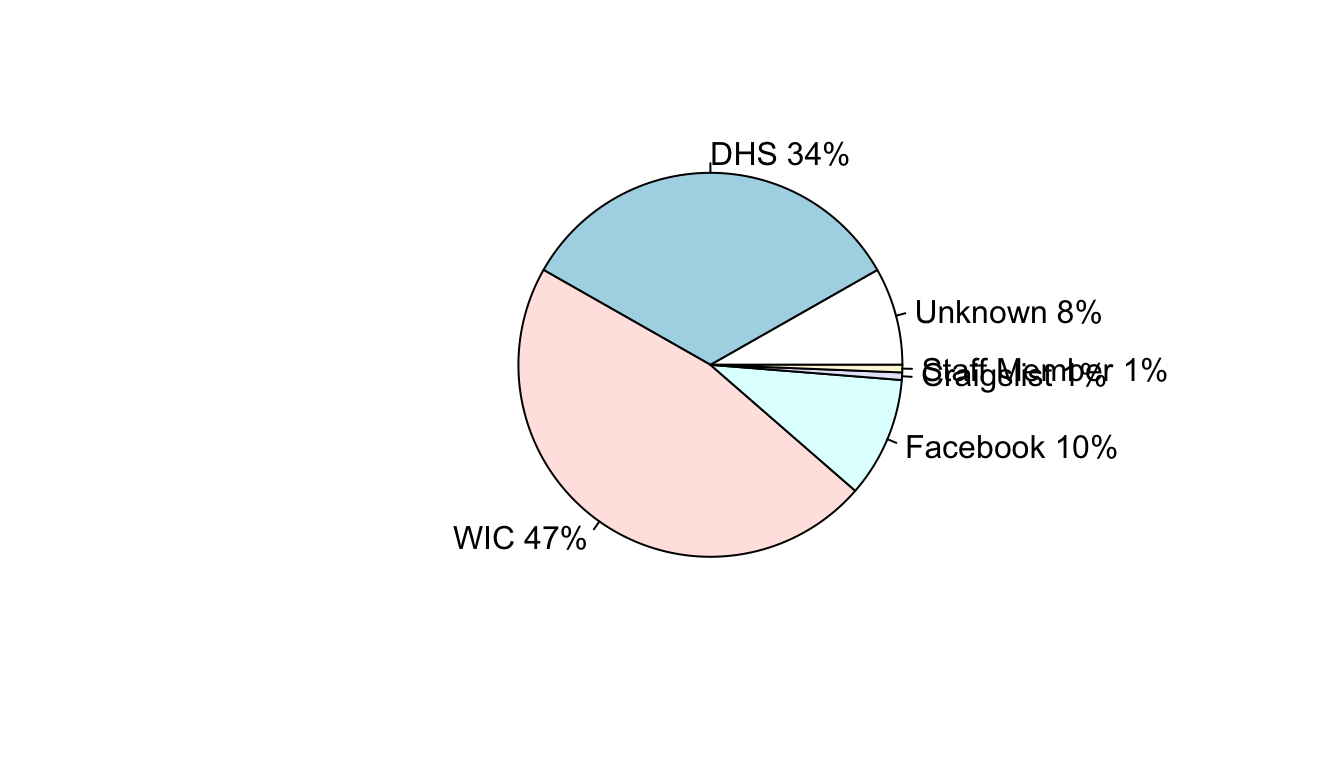
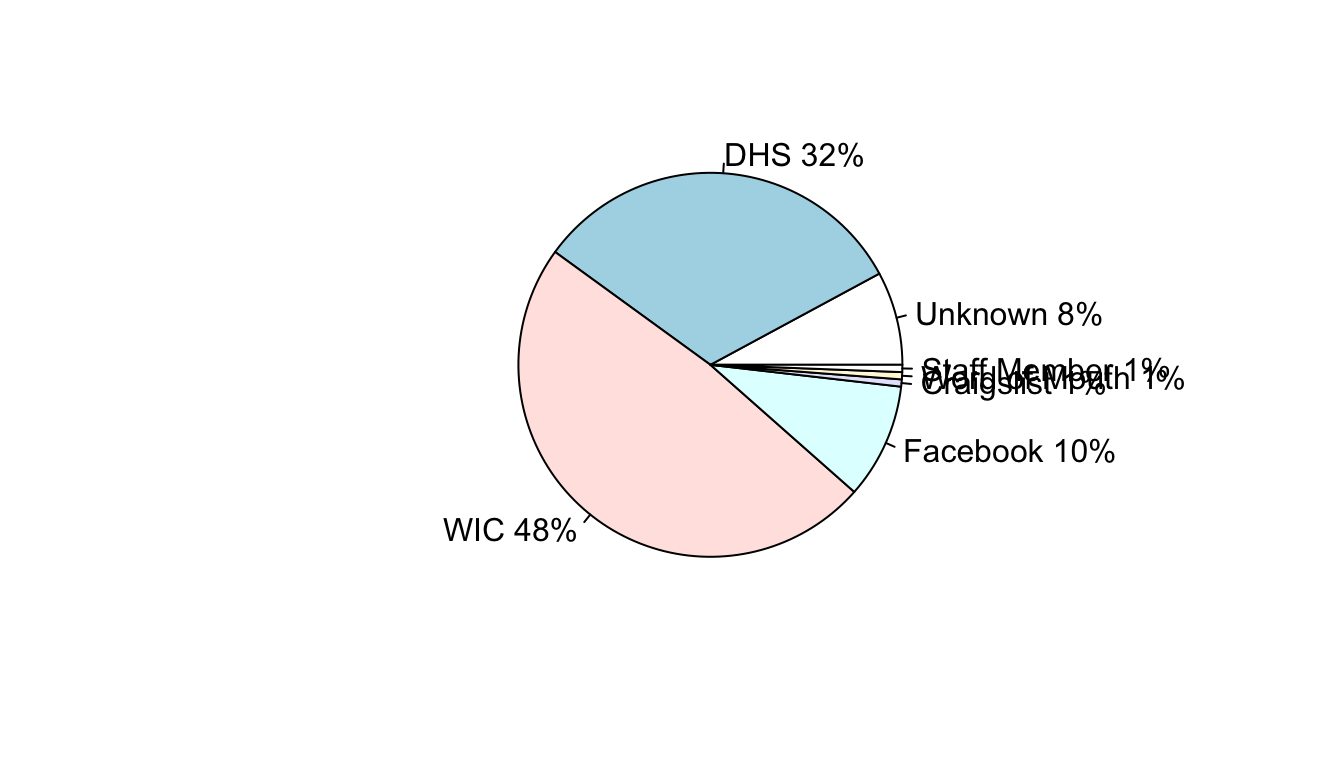
Update 12/15, consolidate pages, add reports tab

diff --git a/_site/Consort.html b/_site/Consort.html
@@ -297,16 +297,16 @@ $(document).ready(function () {
   </a>
   <ul class="dropdown-menu" role="menu">
     <li>
+      <a href="reports.html">Reports</a>
+    </li>
+    <li>
       <a href="consort.html">Consort</a>
     </li>
     <li>
       <a href="Sources.html">Sources</a>
     </li>
     <li>
-      <a href="recruitment.html">Recruitment</a>
-    </li>
-    <li>
-      <a href="projectmgmt.html">Project Management</a>
+      <a href="recruitment.html">FamTracker-Research</a>
     </li>
     <li>
       <a href="intervention.html">Intervention</a>
@@ -385,8 +385,8 @@ $(document).ready(function () {
 </div>
 
 
-<div id="htmlwidget-cab338e644144f74290f" style="width:672px;height:480px;" class="grViz html-widget"></div>
-<script type="application/json" data-for="htmlwidget-cab338e644144f74290f">{"x":{"diagram":"digraph {\ngraph[rankdir=TD]\nnode[shape = rectangle, style = filled, fontsize = 20]\nsubgraph cluster_1 {\n  graph[shape = rectangle, fontsize = 28, face = \"bold\"]\n  style = rounded\n  bgcolor = Gold\n  \n  label = < <font> <b>Pre-Consent<\/b> <\/font> >\n  node[shape = rectangle, fillcolor = LemonChiffon, margin = 0.25]\n  A [label = \"Total in DK Log (n = 165)\"]\n  B [label = \"Total Interested (n = 92)\"]\n  C [label = \"Total Eligible (n = 66)\"]\n  D [label = \"Not Interested (n = 21)\", href=\"./Sources.html\"]\n  F [label = \"Total Not Eligible (n = 22)\"]\n  R [label = \"Not Determined (n = 52)\"]\n  S [label = \"Enrolled (n = 0)\"]\n  T [label = \"Eligible, But Not Enrolled (n = 66)\"]\n  U [label = \"Not Contacted Yet (n = 40)\"]\n  V [label = \"Unable to Reach (n = 12)\"]\n}\nsubgraph cluster_2 {\n  graph[shape = rectangle, fontsize = 28]\n  style = rounded\n  bgcolor = Tomato\n  \n  label = < <font> <b>Consented<\/b> <\/font> >\n  node[shape = rectangle, fillcolor = MistyRose, margin = 0.25 ]\n  L [label = \"Wave 1 Dropout (n = 5)\"]\n  K [label = \"Wave 1 Assessment Complete (n = 0)\"]\n  M [label = \"Intervention Complete (n = 8)\"]\n  N [label = \"Intervention Dropout (n = 0)\"]\n  O [label = \"Wave 2 Complete (n = 0)\"]\n  P [label = \"Wave 2 Dropout (n = 0)\"]\n  Q [label = \"Wave 3 Complete (n = 0)\"]\n}\nA->B; A->D;A->R;R->U;R->V;\nB->C; B->F;\nC->T;C->S;\nS->K;\nK->M; S->L;\nM->O;K->N;\nO->Q; M->P;\n}\n\n#Define Labels","config":{"engine":"dot","options":null}},"evals":[],"jsHooks":[]}</script>
+<div id="htmlwidget-25491f2fac222dea70e8" style="width:672px;height:480px;" class="grViz html-widget"></div>
+<script type="application/json" data-for="htmlwidget-25491f2fac222dea70e8">{"x":{"diagram":"digraph {\ngraph[rankdir=TD]\nnode[shape = rectangle, style = filled, fontsize = 20]\nsubgraph cluster_1 {\n  graph[shape = rectangle, fontsize = 28, face = \"bold\"]\n  style = rounded\n  bgcolor = Gold\n  \n  label = < <font> <b>Pre-Consent<\/b> <\/font> >\n  node[shape = rectangle, fillcolor = LemonChiffon, margin = 0.25]\n  A [label = \"Total in DK Log (n = 165)\"]\n  B [label = \"Total Interested (n = 92)\"]\n  C [label = \"Total Eligible (n = 66)\"]\n  D [label = \"Not Interested (n = 21)\", href=\"./Sources.html\"]\n  F [label = \"Total Not Eligible (n = 22)\"]\n  R [label = \"Not Determined (n = 52)\"]\n  S [label = \"Enrolled (n = 0)\"]\n  T [label = \"Eligible, But Not Enrolled (n = 66)\"]\n  U [label = \"Not Contacted Yet (n = 40)\"]\n  V [label = \"Unable to Reach (n = 12)\"]\n}\nsubgraph cluster_2 {\n  graph[shape = rectangle, fontsize = 28]\n  style = rounded\n  bgcolor = Tomato\n  \n  label = < <font> <b>Consented<\/b> <\/font> >\n  node[shape = rectangle, fillcolor = MistyRose, margin = 0.25 ]\n  L [label = \"Wave 1 Dropout (n = 5)\"]\n  K [label = \"Wave 1 Assessment Complete (n = 0)\"]\n  M [label = \"Intervention Complete (n = 8)\"]\n  N [label = \"Intervention Dropout (n = 0)\"]\n  O [label = \"Wave 2 Complete (n = 0)\"]\n  P [label = \"Wave 2 Dropout (n = 0)\"]\n  Q [label = \"Wave 3 Complete (n = 0)\"]\n}\nA->B; A->D;A->R;R->U;R->V;\nB->C; B->F;\nC->T;C->S;\nS->K;\nK->M; S->L;\nM->O;K->N;\nO->Q; M->P;\n}\n\n#Define Labels","config":{"engine":"dot","options":null}},"evals":[],"jsHooks":[]}</script>
 
 
 

diff --git a/_site/Sources.html b/_site/Sources.html
@@ -295,16 +295,16 @@ $(document).ready(function () {
   </a>
   <ul class="dropdown-menu" role="menu">
     <li>
+      <a href="reports.html">Reports</a>
+    </li>
+    <li>
       <a href="consort.html">Consort</a>
     </li>
     <li>
       <a href="Sources.html">Sources</a>
     </li>
     <li>
-      <a href="recruitment.html">Recruitment</a>
-    </li>
-    <li>
-      <a href="projectmgmt.html">Project Management</a>
+      <a href="recruitment.html">FamTracker-Research</a>
     </li>
     <li>
       <a href="intervention.html">Intervention</a>
@@ -378,7 +378,7 @@ $(document).ready(function () {
 
 <h1 class="title toc-ignore">Sources</h1>
 <h4 class="author"></h4>
-<h4 class="date">Last Updated: 12/04/2020</h4>
+<h4 class="date">Last Updated: 12/15/2020</h4>
 
 </div>
 
@@ -417,7 +417,7 @@ DHS
 WIC
 </td>
 <td style="text-align:right;">
-74
+80
 </td>
 </tr>
 <tr>
@@ -431,6 +431,14 @@ Facebook
 <tr>
 <td style="text-align:left;">
 Craigslist
+</td>
+<td style="text-align:right;">
+1
+</td>
+</tr>
+<tr>
+<td style="text-align:left;">
+Word of Mouth
 </td>
 <td style="text-align:right;">
 1

diff --git a/_site/index.html b/_site/index.html
@@ -370,16 +370,16 @@ div.tocify {
   </a>
   <ul class="dropdown-menu" role="menu">
     <li>
+      <a href="reports.html">Reports</a>
+    </li>
+    <li>
       <a href="consort.html">Consort</a>
     </li>
     <li>
       <a href="Sources.html">Sources</a>
     </li>
     <li>
-      <a href="recruitment.html">Recruitment</a>
-    </li>
-    <li>
-      <a href="projectmgmt.html">Project Management</a>
+      <a href="recruitment.html">FamTracker-Research</a>
     </li>
     <li>
       <a href="intervention.html">Intervention</a>
@@ -453,7 +453,7 @@ div.tocify {
 
 <h1 class="title toc-ignore">rSEAL Dashboard</h1>
 <h4 class="author">Built by: Allison Kunerth and Xiao Cheng</h4>
-<h4 class="date">Last Updated: 12/03/2020</h4>
+<h4 class="date">Last Updated: 12/15/2020</h4>
 
 </div>
 

diff --git a/_site/FamTracker.html b/_site/FamTracker.html
@@ -293,16 +293,16 @@ $(document).ready(function () {
   </a>
   <ul class="dropdown-menu" role="menu">
     <li>
+      <a href="reports.html">Reports</a>
+    </li>
+    <li>
       <a href="consort.html">Consort</a>
     </li>
     <li>
       <a href="Sources.html">Sources</a>
     </li>
     <li>
-      <a href="recruitment.html">Recruitment</a>
-    </li>
-    <li>
-      <a href="projectmgmt.html">Project Management</a>
+      <a href="recruitment.html">FamTracker-Research</a>
     </li>
     <li>
       <a href="intervention.html">Intervention</a>
@@ -376,7 +376,7 @@ $(document).ready(function () {
 
 <h1 class="title toc-ignore">FamTracker</h1>
 <h4 class="author"></h4>
-<h4 class="date">Last Updated: 12/03/2020</h4>
+<h4 class="date">Last Updated: 12/15/2020</h4>
 
 </div>
 

diff --git a/_site/recruitment.html b/_site/recruitment.html
@@ -293,6 +293,9 @@ $(document).ready(function () {
   </a>
   <ul class="dropdown-menu" role="menu">
     <li>
+      <a href="reports.html">Reports</a>
+    </li>
+    <li>
       <a href="consort.html">Consort</a>
     </li>
     <li>
@@ -300,9 +303,6 @@ $(document).ready(function () {
     </li>
     <li>
       <a href="recruitment.html">FamTracker-Research</a>
-    </li>
-    <li>
-      <a href="projectmgmt.html">Project Management</a>
     </li>
     <li>
       <a href="intervention.html">Intervention</a>
@@ -376,7 +376,7 @@ $(document).ready(function () {
 
 <h1 class="title toc-ignore">FamTracker - Research</h1>
 <h4 class="author"></h4>
-<h4 class="date">Last Updated: 12/03/2020</h4>
+<h4 class="date">Last Updated: 12/15/2020</h4>
 
 </div>
 

diff --git a/_site/reports.html b/_site/reports.html
@@ -11,7 +11,7 @@
 
 
 
-<title>Intervention</title>
+<title>Reports</title>
 
 <script src="site_libs/header-attrs-2.5/header-attrs.js"></script>
 <script src="site_libs/jquery-1.11.3/jquery.min.js"></script>
@@ -374,22 +374,14 @@ $(document).ready(function () {
 
 
 
-<h1 class="title toc-ignore">Intervention</h1>
+<h1 class="title toc-ignore">Reports</h1>
 <h4 class="author"></h4>
 <h4 class="date">Last Updated: 12/15/2020</h4>
 
 </div>
 
 
-<style type="text/css">
-.main-container {
-  max-width: 1800px;
-  margin-left: auto;
-  margin-right: auto;
-}
-</style>
-<iframe src="https://dat-snaplab.shinyapps.io/shinypassword/" style="border: none; width: 1500px; height: 1000px;"></iframe>
-</iframe>
+
 
 
 

diff --git a/_site/API.html b/_site/API.html
@@ -295,16 +295,16 @@ $(document).ready(function () {
   </a>
   <ul class="dropdown-menu" role="menu">
     <li>
+      <a href="reports.html">Reports</a>
+    </li>
+    <li>
       <a href="consort.html">Consort</a>
     </li>
     <li>
       <a href="Sources.html">Sources</a>
     </li>
     <li>
-      <a href="recruitment.html">Recruitment</a>
-    </li>
-    <li>
-      <a href="projectmgmt.html">Project Management</a>
+      <a href="recruitment.html">FamTracker-Research</a>
     </li>
     <li>
       <a href="intervention.html">Intervention</a>

diff --git a/_site/demographics.html b/_site/demographics.html
@@ -371,16 +371,16 @@ div.tocify {
   </a>
   <ul class="dropdown-menu" role="menu">
     <li>
+      <a href="reports.html">Reports</a>
+    </li>
+    <li>
       <a href="consort.html">Consort</a>
     </li>
     <li>
       <a href="Sources.html">Sources</a>
     </li>
     <li>
-      <a href="recruitment.html">Recruitment</a>
-    </li>
-    <li>
-      <a href="projectmgmt.html">Project Management</a>
+      <a href="recruitment.html">FamTracker-Research</a>
     </li>
     <li>
       <a href="intervention.html">Intervention</a>

diff --git a/_site/enrollment.html b/_site/enrollment.html
@@ -369,16 +369,16 @@ div.tocify {
   </a>
   <ul class="dropdown-menu" role="menu">
     <li>
+      <a href="reports.html">Reports</a>
+    </li>
+    <li>
       <a href="consort.html">Consort</a>
     </li>
     <li>
       <a href="Sources.html">Sources</a>
     </li>
     <li>
-      <a href="recruitment.html">Recruitment</a>
-    </li>
-    <li>
-      <a href="projectmgmt.html">Project Management</a>
+      <a href="recruitment.html">FamTracker-Research</a>
     </li>
     <li>
       <a href="intervention.html">Intervention</a>

diff --git a/_site/projectmgmt.html b/_site/projectmgmt.html
@@ -369,16 +369,16 @@ div.tocify {
   </a>
   <ul class="dropdown-menu" role="menu">
     <li>
+      <a href="reports.html">Reports</a>
+    </li>
+    <li>
       <a href="consort.html">Consort</a>
     </li>
     <li>
       <a href="Sources.html">Sources</a>
     </li>
     <li>
-      <a href="recruitment.html">Recruitment</a>
-    </li>
-    <li>
-      <a href="projectmgmt.html">Project Management</a>
+      <a href="recruitment.html">FamTracker-Research</a>
     </li>
     <li>
       <a href="intervention.html">Intervention</a>

diff --git a/_site/tbd.html b/_site/tbd.html
@@ -369,16 +369,16 @@ div.tocify {
   </a>
   <ul class="dropdown-menu" role="menu">
     <li>
+      <a href="reports.html">Reports</a>
+    </li>
+    <li>
       <a href="consort.html">Consort</a>
     </li>
     <li>
       <a href="Sources.html">Sources</a>
     </li>
     <li>
-      <a href="recruitment.html">Recruitment</a>
-    </li>
-    <li>
-      <a href="projectmgmt.html">Project Management</a>
+      <a href="recruitment.html">FamTracker-Research</a>
     </li>
     <li>
       <a href="intervention.html">Intervention</a>
